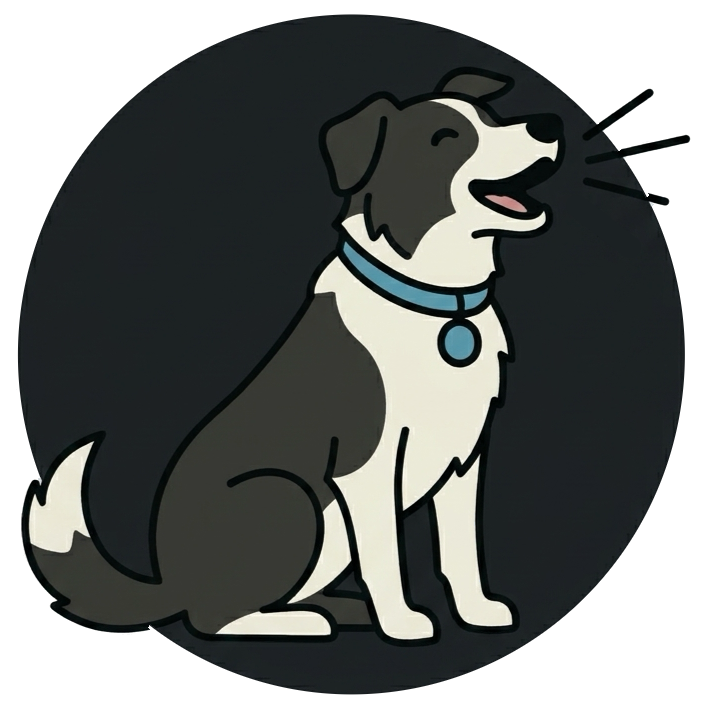
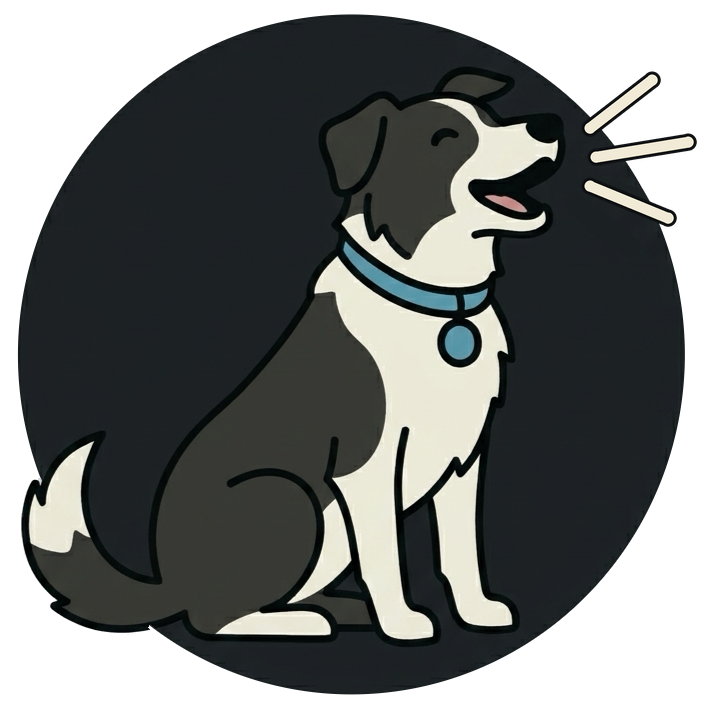
Make Tug's bark lines cream so all three show

Changed region(s): [[0.8125, 0.0938, 1.0, 0.3438]]

diff --git a/README.md b/README.md
@@ -1,4 +1,9 @@
-<p align="center"><img src="art/tug.png" width="360" alt="Tug, a border collie, barking"></p>
+<p align="center">
+  <picture>
+    <source media="(prefers-color-scheme: dark)" srcset="art/tug.png">
+    <img src="art/tug-light.png" width="360" alt="Tug, a border collie, barking">
+  </picture>
+</p>
 
 # Sheepdog
 
